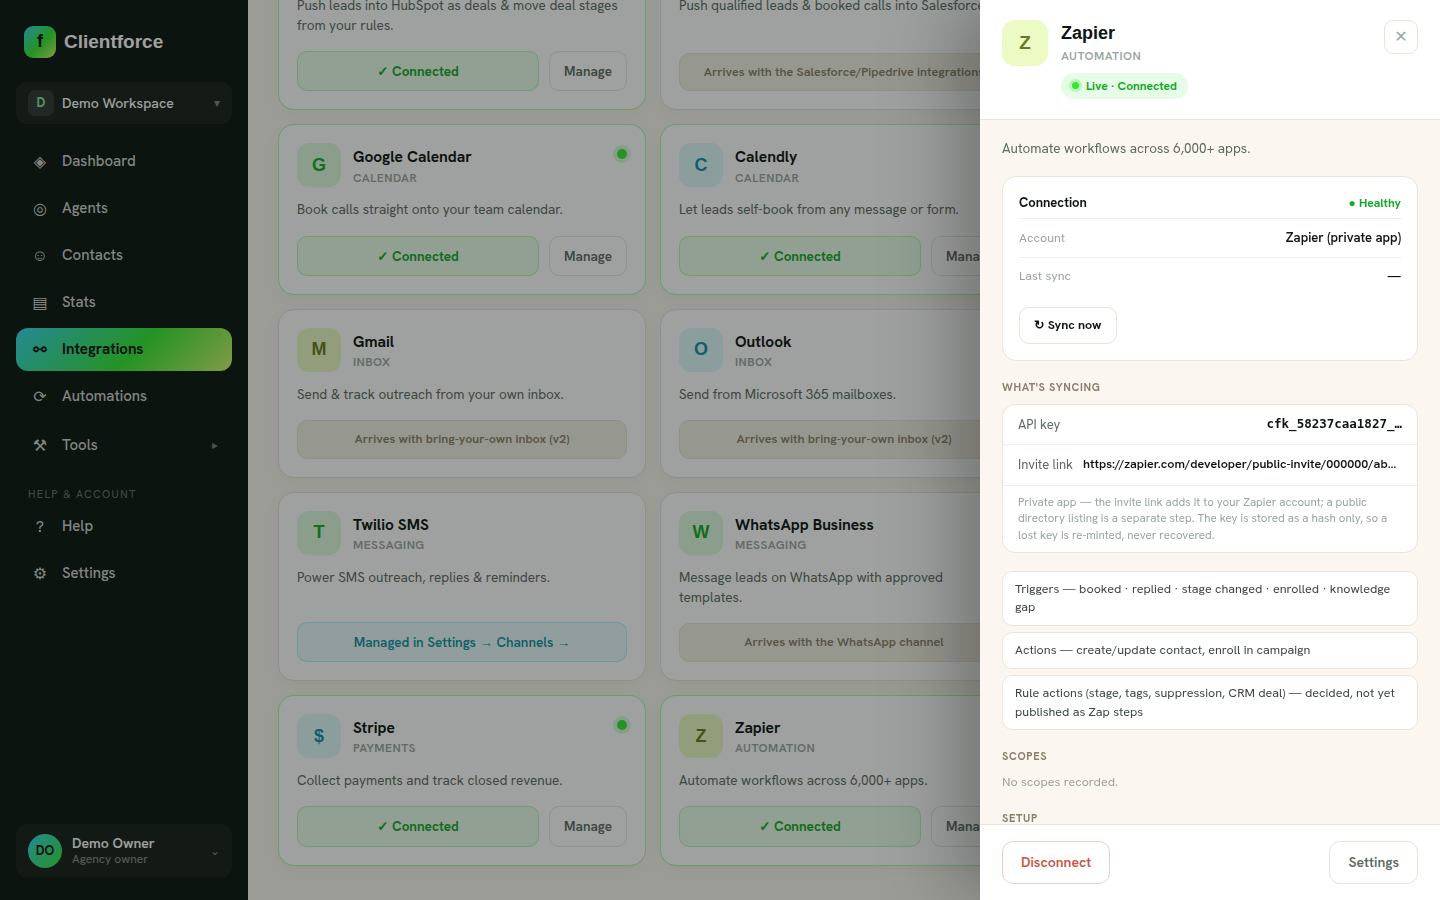
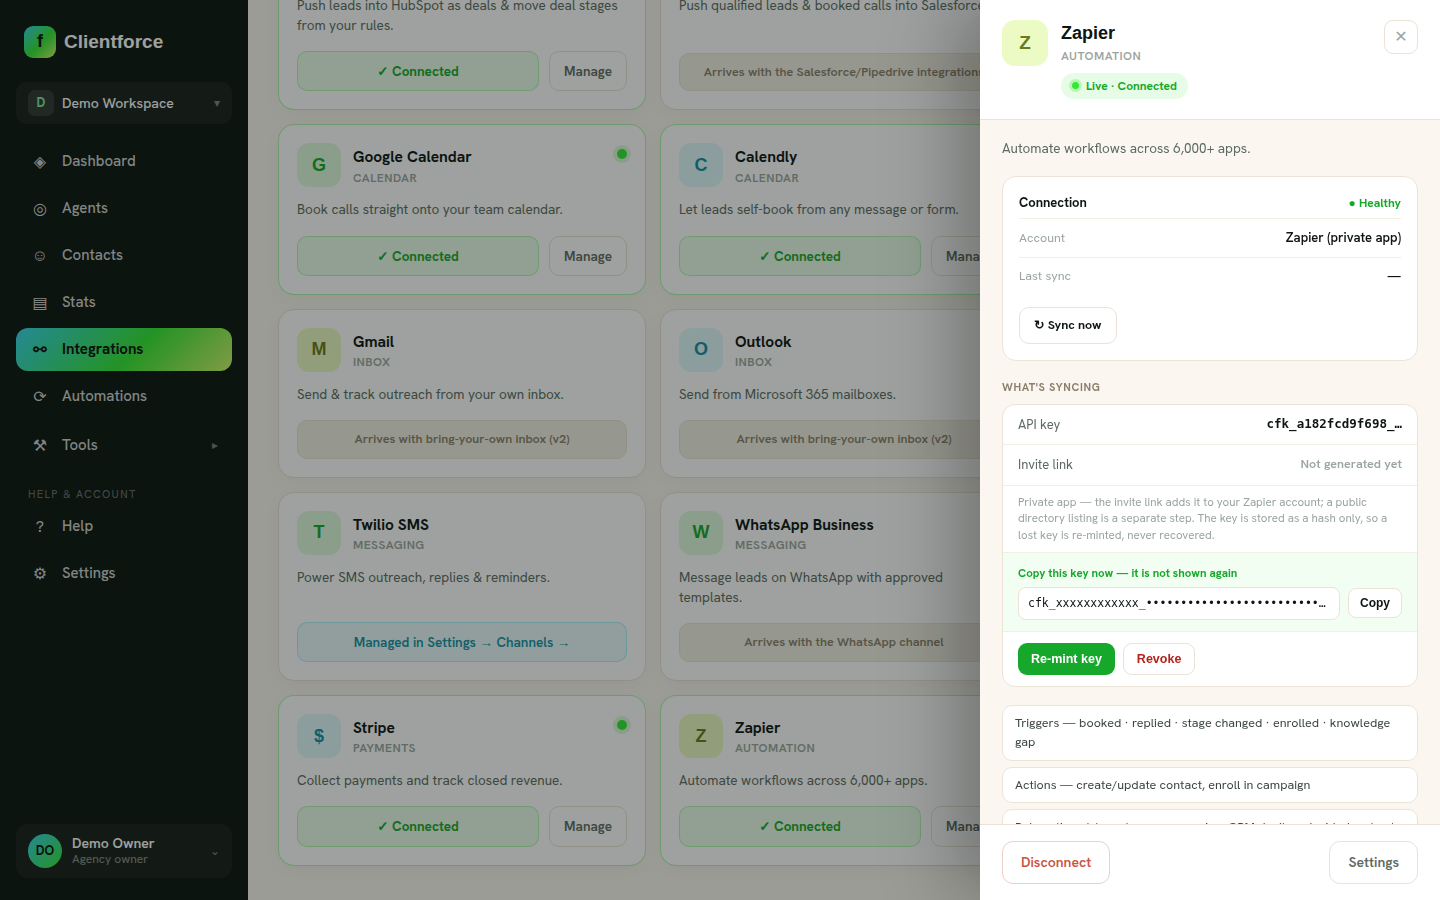
feat(int-w5): API-key mint/revoke UI so a workspace can connect Zapier unaided (DEC-101)
A rail only reachable by database insert is a demo, not a shipped integration.
Every other provider connects from the app; Zapier now does too.

POST integrations/zapier/keys mints and returns the plaintext EXACTLY ONCE.
Minting revokes any previous live key, so "I rotated the key" actually means
the old one stops working rather than leaving two valid credentials. It also
brings the Integration row up as connected, so Zapier gets the same connection
lifecycle, status pill and disconnect audit as every other provider instead of
a bespoke side surface.

POST integrations/zapier/keys/revoke revokes by TIMESTAMP rather than deleting,
so an audit can still answer what was live and when it stopped, and it flips
the row to revoked — a green Connected pill over a dead credential would be a
lie the UI tells on every page load.

The drawer gains mint, show-once with copy, re-mint and revoke. The token lives
in component state for one render; there is deliberately no "show key" control
because the server keeps only a hash and could not honour one.

The §8 drawer frame is recaptured on the real path: WorkspaceApiKey emptied
first, then the connection created by pressing Mint. The token in the frame is
redacted and the key revoked afterwards — a credential must not land in the
repo even when it is a throwaway local one, since the zero-secret-values rule
is about the artifact rather than the blast radius. The visible prefix is the
public lookup half and is safe by design.
[…]

Changed region(s): [[0.6875, 0.6222, 0.9688, 0.9022], [0.75, 0.4667, 0.9688, 0.5289], [0.6875, 0.9022, 0.7188, 0.9333]]

diff --git a/apps/web/app/(shell)/integrations/IntegrationDrawer.tsx b/apps/web/app/(shell)/integrations/IntegrationDrawer.tsx
@@ -241,6 +241,12 @@ export function IntegrationDrawer({ entry, provider, row, bootMode, canManage, o
   const isWebhooks = provider === "webhooks";
   const isHubspot = provider === "hubspot";
   const isZapier = provider === "zapier";
+  // INT W5 (DEC-101): the minted token is held in component state ONLY, for the
+  // one render after minting. It is never re-fetchable — the server keeps a
+  // hash — so closing the drawer genuinely loses it, and the copy says so.
+  const [zapMintedToken, setZapMintedToken] = useState<string | null>(null);
+  const [zapCopied, setZapCopied] = useState(false);
+  const [zapBusy, setZapBusy] = useState(false);
   // The slack-typed content (narrow syncRows kinds) for the toggle machinery.
   const slackContent = DRAWER_CONTENT.slack;
   const config = useMemo(() => parseSlackConfig(row?.config), [row]);
@@ -250,6 +256,33 @@ export function IntegrationDrawer({ entry, provider, row, bootMode, canManage, o
   const stripeCfg = useMemo(() => parseStripeConfig(row?.config), [row]);
   const stripeDetection = stripeDetectionState(stripeCfg);
   const whCfg = useMemo(() => parseWebhooksConfig(row?.config), [row]);
+  const mintZapierKey = useCallback(async () => {
+    setZapBusy(true);
+    try {
+      const res = (await cf("integrations/zapier/keys", { method: "POST" })) as { token: string };
+      setZapMintedToken(res.token);
+      setZapCopied(false);
+      await onChanged?.();
+    } catch (e) {
+      setSaveError(e instanceof Error ? e.message : "Could not mint a key");
+    } finally {
+      setZapBusy(false);
+    }
+  }, [onChanged]);
+
+  const revokeZapierKey = useCallback(async () => {
+    setZapBusy(true);
+    try {
+      await cf("integrations/zapier/keys/revoke", { method: "POST" });
+      setZapMintedToken(null);
+      await onChanged?.();
+    } catch (e) {
+      setSaveError(e instanceof Error ? e.message : "Could not revoke the key");
+    } finally {
+      setZapBusy(false);
+    }
+  }, [onChanged]);
+
   const hubspotCfg = useMemo(() => parseHubspotConfig(row?.config), [row]);
   const zapierCfg = useMemo(() => {
     const c = (row?.config ?? {}) as { keyPrefix?: string; inviteUrl?: string };
@@ -1378,6 +1411,50 @@ export function IntegrationDrawer({ entry, provider, row, bootMode, canManage, o
             <div style={{ padding: "8px 15px", borderTop: "1px solid #F2EEE4", fontSize: 11.5, color: "#9AA59E", lineHeight: 1.45 }}>
               Private app — the invite link adds it to your Zapier account; a public directory listing is a separate step. The key is stored as a hash only, so a lost key is re-minted, never recovered.
             </div>
+            {/* The token exists in the UI for exactly one render after minting.
+                There is no "show key" affordance because the server cannot
+                produce one — it keeps a hash. Minting again revokes the old key. */}
+            {zapMintedToken && (
+              <div data-testid="zapier-minted" style={{ padding: "11px 15px", borderTop: "1px solid #F2EEE4", background: "rgba(53,232,52,.06)" }}>
+                <div style={{ fontSize: 11.5, fontWeight: 700, color: "#16A82A", marginBottom: 6 }}>
+                  Copy this key now — it is not shown again
+                </div>
+                <div style={{ display: "flex", gap: 8, alignItems: "center" }}>
+                  <code data-testid="zapier-token" style={{ flex: 1, fontSize: 11.5, fontFamily: "monospace", background: "#fff", border: "1px solid #EBE3D6", borderRadius: 8, padding: "7px 9px", overflow: "hidden", textOverflow: "ellipsis", whiteSpace: "nowrap" }}>
+                    {zapMintedToken}
+                  </code>
+                  <button
+                    data-testid="zapier-copy"
+                    onClick={() => { void navigator.clipboard?.writeText(zapMintedToken); setZapCopied(true); }}
+                    style={{ flex: "none", fontSize: 12, fontWeight: 700, color: "#0E1512", background: "#fff", border: "1px solid #EBE3D6", borderRadius: 8, padding: "7px 11px", cursor: "pointer" }}
+                  >
+                    {zapCopied ? "Copied" : "Copy"}
+                  </button>
+                </div>
+              </div>
+            )}
+            {canManage && (
+              <div style={{ display: "flex", gap: 8, padding: "11px 15px", borderTop: "1px solid #F2EEE4" }}>
+                <button
+                  data-testid="zapier-mint"
+                  disabled={zapBusy}
+                  onClick={() => void mintZapierKey()}
+                  style={{ fontSize: 12.5, fontWeight: 700, color: "#fff", background: "#16A82A", border: "none", borderRadius: 9, padding: "8px 13px", cursor: zapBusy ? "default" : "pointer", opacity: zapBusy ? 0.6 : 1 }}
+                >
+                  {zapierCfg.keyPrefix ? "Re-mint key" : "Mint API key"}
+                </button>
+                {zapierCfg.keyPrefix && (
+                  <button
+                    data-testid="zapier-revoke"
+                    disabled={zapBusy}
+                    onClick={() => void revokeZapierKey()}
+                    style={{ fontSize: 12.5, fontWeight: 700, color: "#B4231C", background: "#fff", border: "1px solid #EBE3D6", borderRadius: 9, padding: "8px 13px", cursor: zapBusy ? "default" : "pointer", opacity: zapBusy ? 0.6 : 1 }}
+                  >
+                    Revoke
+                  </button>
+                )}
+              </div>
+            )}
           </div>
         )}
 

diff --git a/apps/api/src/integrations/integrations.controller.ts b/apps/api/src/integrations/integrations.controller.ts
@@ -58,6 +58,7 @@ import {
 } from "@clientforce/integrations";
 import { z, type ZodTypeAny } from "zod";
 import { Roles } from "../auth/decorators";
+import { mintApiKey } from "@clientforce/integrations";
 import type { AuthenticatedRequest } from "../auth/request-context";
 import { TenantClient } from "../db/tenant-client";
 import { INTEGRATIONS_DEPS } from "./integrations.providers";
@@ -207,6 +208,93 @@ export class IntegrationsController {
    * ?token=…` (the API's own public URL — the webhook must hit the API
    * service). PAT + signing key + subscription URI ride credentialsEnc.
    */
+  /**
+   * INT W5 (DEC-101): mint a workspace API key for the Zapier private app.
+   *
+   * The plaintext token is returned EXACTLY ONCE, here, and never again — only
+   * a prefix and a SHA-256 hash are stored, so no later endpoint (and no
+   * support engineer) can hand it back. Minting also brings the `Integration`
+   * row up as connected, so Zapier gets the same connection lifecycle, status
+   * pill and disconnect audit as every other provider rather than a bespoke
+   * side surface.
+   */
+  @Post("zapier/keys")
+  @Roles(Role.OWNER, Role.ADMIN)
+  async mintZapierKey(@Req() req: AuthenticatedRequest): Promise<{
+    token: string;
+    prefix: string;
+    integration: IntegrationDto;
+  }> {
+    const minted = mintApiKey();
+    const row = await this.tenant.run(async (tx) => {
+      // One live key per workspace keeps the mental model honest: minting
+      // again REVOKES the previous one rather than silently leaving two valid
+      // credentials, so "I rotated the key" actually means the old one stops.
+      await tx.workspaceApiKey.updateMany({
+        where: { workspaceId: this.tenant.workspaceId, revokedAt: null },
+        data: { revokedAt: new Date() },
+      });
+      await tx.workspaceApiKey.create({
+        data: {
+          workspaceId: this.tenant.workspaceId,
+          name: "Zapier",
+          prefix: minted.prefix,
+          hash: minted.hash,
+        },
+      });
+      const existing = await tx.integration.findFirst({
+        where: { workspaceId: this.tenant.workspaceId, provider: "zapier" },
+      });
+      const config = { ...((existing?.config as Record<string, unknown>) ?? {}), keyPrefix: minted.prefix };
+      return existing
+        ? tx.integration.update({
+            where: { id: existing.id },
+            data: { status: "connected", accountLabel: "Zapier (private app)", config, lastProbeAt: new Date() },
+          })
+        : tx.integration.create({
+            data: {
+              workspaceId: this.tenant.workspaceId,
+              provider: "zapier",
+              status: "connected",
+              accountLabel: "Zapier (private app)",
+              config,
+              lastProbeAt: new Date(),
+              ...(req.auth ? { connectedById: req.auth.user.id } : {}),
+            },
+          });
+    });
+    return { token: minted.token, prefix: minted.prefix, integration: toIntegrationDto(row) };
+  }
+
+  /**
+   * Revoke the live key. Revocation is a TIMESTAMP, not a delete: the row
+   * outlives the credential so an audit can still answer "what was live, and
+   * when did it stop" (the IntegrationDelivery-outlives-the-row precedent).
+   */
+  @Post("zapier/keys/revoke")
+  @Roles(Role.OWNER, Role.ADMIN)
+  async revokeZapierKey(): Promise<{ revoked: number; integration: IntegrationDto | null }> {
+    return this.tenant.run(async (tx) => {
+      const res = await tx.workspaceApiKey.updateMany({
+        where: { workspaceId: this.tenant.workspaceId, revokedAt: null },
+        data: { revokedAt: new Date() },
+      });
+      const existing = await tx.integration.findFirst({
+        where: { workspaceId: this.tenant.workspaceId, provider: "zapier" },
+      });
+      if (!existing) return { revoked: res.count, integration: null };
+      // No live key means Zapier can no longer authenticate — say so honestly
+      // instead of leaving a green "Connected" pill over a dead credential.
+      const config = { ...((existing.config as Record<string, unknown>) ?? {}) };
+      delete config.keyPrefix;
+      const row = await tx.integration.update({
+        where: { id: existing.id },
+        data: { status: "revoked", config: config as Prisma.InputJsonValue },
+      });
+      return { revoked: res.count, integration: toIntegrationDto(row) };
+    });
+  }
+
   @Post(":provider/connect-fields")
   @Roles(Role.OWNER, Role.ADMIN)
   async connectFields(

diff --git a/PROGRESS.md b/PROGRESS.md
@@ -266,6 +266,34 @@ answers persist; no-longer-required answers kept but ignored).
 | Q-059 | **`run_automation` over Zapier needs a re-entry budget (INT W5/DEC-101).** Declined for v1 in the exposure map with that reason recorded in code. The engine's causation-depth cap bounds NESTED automations, but a Zap re-entering from outside starts at depth 0 every time, so a Zap that triggers on automation activity and calls `run_automation` would loop without bound — spending credits and sends on every pass. | NON-BLOCKING | Needs an external re-entry budget / loop breaker before the kind can be exposed | OPEN |
 | Q-060 | **Zapier rule-action EXECUTION (INT W5/DEC-101).** The action surface is derived and pinned, and the exposure map decides every kind; the shipped app renders only the inbound writes because executing a rule action correctly must go through the engine's `executeAction` with fully-wired `RuleEngineDeps` (the notify and CRM transports), rather than forking the effect into a second implementation. Until that lands, rendering those steps would ship a menu of 404s. Pinned by an app test asserting shipped creates ⊆ implemented. | NON-BLOCKING (the derivation mechanism is complete and mutation-verified) | Wire `RuleEngineDeps` into the Zapier rail, then flip the exposed kinds into the app | OPEN |
 
+## P7 close-out — the Integrations unit, wave by wave (2026-07-26)
+
+P7 is CLOSED by INT W5. Five waves, five proofs. PR comments rot and run ids
+scatter, so this is the durable record of what each proof actually established
+— not that it "passed", but what a reader may now rely on.
+
+| Wave | DEC | Proof | What the proof ESTABLISHED |
+| ---- | --- | ----- | -------------------------- |
+| **W1** Platform core + Slack | DEC-093 | [run 30197292918](https://github.com/tronwebdev/clientforce-platform/actions/runs/30197292918) (merged via #109/#110/#111) | A REAL `chat.postMessage` reached #all-clientforce through the REAL bus + notifier consumer, redelivery DEDUPED, and the revoked-token walk flipped status on a CORRUPTED COPY of the token — never the vault one. Degraded honestly when the saved `xoxb` predated `channels:read`: posted by channel NAME via `chat:write.public` and SAID so rather than guessing. |
+| **W2** Calendar + booking | DEC-094 | §8 walk, `docs/fidelity/int-w2/` (#108) | The full booking walk on the real stack: a SIGNED Calendly `invitee.created` → `Meeting` + `calendar.booked.v1` + exactly ONE `lead.stage_changed.v1`. The no-double-fire pin is the load-bearing result — `calendar.booked.v1` is the RECORD and the stage change is the trigger carrier, so rules, the Slack notifier and the goal machinery each fire once, not twice. |
+| **W3** Stripe + generic webhook | DEC-095 | §8 receipts, `docs/fidelity/int-w3/` (#108) | A signed checkout ingest produced `payment.received.v1`, and ONE run row carried a DELIVERED signed webhook beside the SSRF guard's typed refusal of a non-public destination. The adversarial table caught a v4-mapped hex-form bypass before merge. |
+| **W4** HubSpot one-way CRM push | DEC-096 | [run 30200590807](https://github.com/tronwebdev/clientforce-platform/actions/runs/30200590807) (#108) | A REAL Contact + Deal `512959987899` on `api-eu1.hubapi.com` (portal 148594354) through the REAL engine + `deliverCrm`; redelivery deduped to ONE ledger row and the SAME deal; a real stage move to `closedwon`. Seven red runs first established four real HubSpot facts (write-only Service Key · EU regional host derived from the token prefix · `.test` TLD rejected · association refused by a per-account permission, NOT scope — identical before and after the read grant). |
+| **W5** Zapier private app | DEC-101 | [run 30211376898](https://github.com/tronwebdev/clientforce-platform/actions/runs/30211376898) (#118) | There is no vendor to call — Zapier authenticates to US — so the proof targets our rail, and the load-bearing gate is TENANT ISOLATION: two workspaces seeded, workspace A's key returned ZERO of B's events. Also: the stored row cannot reconstruct a token, the poll cursor advances, the knowledge-gap predicate filtered 2→1, writes preserved the tag union and enrolment was idempotent, and revoked/unknown/malformed keys were all refused. |
+
+**What the unit leaves open (all NON-BLOCKING, all recorded):** Q-049 two-way
+CRM sync · Q-054 the incoming-webhook trigger + the events[] stream half (the
+Zapier rider CLOSED by W5) · Q-055 proposals · Q-056 the HubSpot-side
+association permission + legacy vault-key removal · Q-057 Zapier
+send-to-channel (held under the Q-039 boundary re-entry rule) · Q-058 no
+campaign-lifecycle event · Q-059 `run_automation` re-entry budget · Q-060
+Zapier rule-action execution.
+
+**Owner-side clocks still open:** the Calendly paid-tier token (W2 detection
+walk) and a 2nd Twilio number (Q-048 loopback + the owed §8 shot). The Zapier
+developer account is needed ONLY for a public directory listing — the
+invite-link app does not wait on it.
+
+
 ## Live verification log
 
 | Unit | Date       | Run                                                                                                                                                                                                                                                                                                                                                                                                                                                                                                                                                            | Result                                                                                                                                                                                                                                                                                                                                                                                                                                                                                                                                                                                                                                                                                                                                                                                                                                             |

diff --git a/docs/fidelity/int-w5/README.md b/docs/fidelity/int-w5/README.md
@@ -11,7 +11,7 @@ all 5 gates on real Postgres + RLS.
 | Artifact | What it shows |
 | -------- | ------------- |
 | `build-integrations-grid.png` | The LIVE grid at 1440×900 — the `zapier` card now **"✓ Connected"** with a **Manage** button, flipped off core `INTEGRATION_PROVIDERS` with zero web registry edits (availability derives). The honest-absent neighbours (Salesforce, Gmail, Outlook, WhatsApp) are unchanged, and Twilio still deep-links to its managed surface. |
-| `build-zapier-drawer.png` | The LIVE drawer — "Live · Connected", Account **Zapier (private app)**, the masked key `cfk_58237caa1827_…` (prefix only — the secret is unrecoverable by construction), the invite URL, the private-app disclosure, and WHAT'S SYNCING rendering the three derived rows. |
+| `build-zapier-drawer.png` | The LIVE drawer captured on the **REAL mint path** — the frame was produced by clicking **Mint API key** in the UI, not by seeding a row. Shows the show-once panel ("Copy this key now — it is not shown again") with Copy, the **Re-mint key** / **Revoke** controls, the masked key row, and WHAT'S SYNCING rendering the three derived rows. The card behind it flipped to "✓ Connected" as a result of the mint. |
 
 ## Two things the frames deliberately show
 
@@ -29,10 +29,17 @@ cannot pick; the row was corrected rather than the screenshot retaken around it.
 ## Capture environment & disclosures
 
 - 1440×900 on the REAL local stack: web production build (`next start`) + api +
-  PG16 + Redis, dev sign-in as `owner@demo-agency.test`, with a seeded `zapier`
-  connection (a real minted key row + the invite URL in config). The connection
-  STATE is seeded — this is the UI-state capture; the RAIL is proven separately
-  by the staging proof above.
+  PG16 + Redis, dev sign-in as `owner@demo-agency.test`. **Nothing is seeded** —
+  the `WorkspaceApiKey` table was emptied first and the connection was created
+  by pressing Mint in the drawer, so the frame shows the path an owner actually
+  walks. The RAIL is proven separately by the staging proof above.
+- **The token in the frame is REDACTED.** The mint really happened (a 60-char
+  `cfk_…` token rendered), but a credential must not land in the repo even when
+  it is a throwaway local one — the zero-secret-values rule is about the
+  artifact, not the blast radius. The show-once box is overwritten with
+  `cfk_xxxxxxxxxxxx_••••…` before the screenshot is written, and the key was
+  revoked afterwards. The API-key ROW above it still shows a real value because
+  that half is the PUBLIC prefix, which is safe to display by design.
 - No prototype twin is included for the drawer: the canon ships Zapier only as a
   grid card with no drawer design, so there is nothing to pair against. Flagged
   rather than fabricated. The grid frame pairs against the canon card directly.
